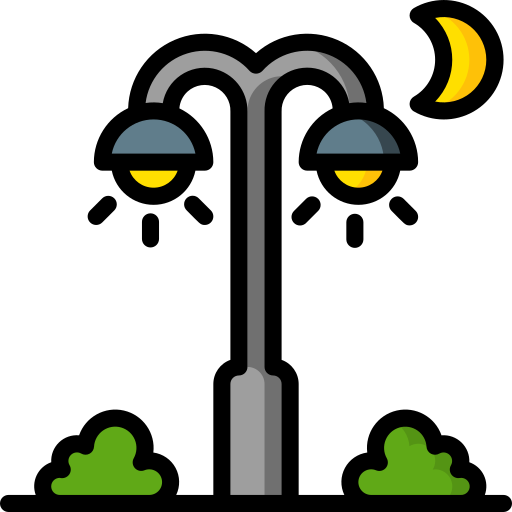
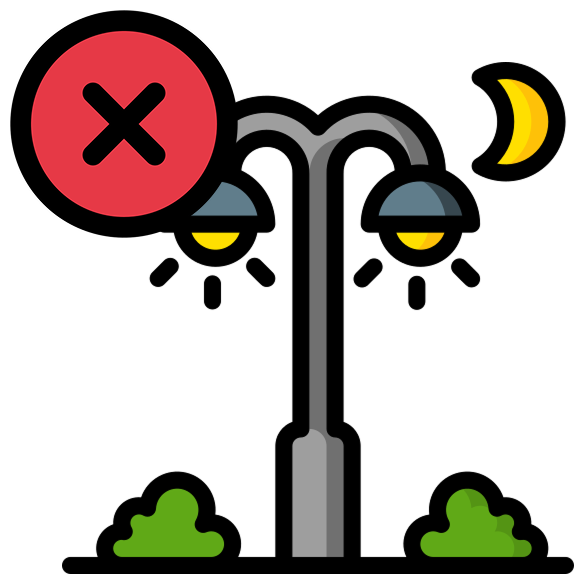
feat: nueva subcategoria + iconos actualizados + cleanup share message
- Vehicular: nueva subcategoria "Vehiculos mal estacionados" + icono
  no-parking.png para reportes de parqueo indebido en zonas residenciales,
  paradas, esquinas con visibilidad reducida, etc.
- Iconos actualizados: lack-of-lighting.png y traffic-light.png reemplazados
  con versiones nuevas mas legibles a tamano reducido.
- Email a autoridad: removida linea "Estado actual" (99% de los reportes
  son 'nuevo', sin valor agregado en el contexto del email). Limpieza del
  import STATUS_LABELS que solo se usaba para esa linea.
- Pagina /metodologia: taxonomia INTRANT respaldada con la cita textual
  + URL del articulo verificable (Telenord, 5 marzo 2026, Joel Gneco
  Gross director de transito y vialidad). Seccion de Referencias lista
  fuente primaria + Plan Estrategico + OPSEVI + WHO Decade of Action.
- Ayuntamiento (share-message): descripcion generalizada — quitada
  referencia a "Santo Domingo D.N." para que aplique a cualquier municipio.

diff --git a/src/app/metodologia/page.tsx b/src/app/metodologia/page.tsx
@@ -11,7 +11,7 @@ import {
 export const metadata: Metadata = {
   title: 'Metodología - PuntosNegrosRD',
   description:
-    'Cómo se recolectan los datos, taxonomía INTRANT, ciclo de vida del reporte y limitaciones declaradas.',
+    'Cómo se recolectan los datos, marco de clasificación de factores de riesgo, ciclo de vida del reporte y limitaciones declaradas.',
 };
 
 export default function MetodologiaPage() {
@@ -31,8 +31,9 @@ export default function MetodologiaPage() {
             Metodología
           </h1>
           <p className="mt-4 text-base leading-relaxed text-fg-muted sm:text-lg">
-            Cómo se recolecta la información, qué taxonomía usamos, qué hacemos
-            con los datos y qué limitaciones tiene este enfoque ciudadano.
+            Cómo se recolecta la información, qué marco de clasificación
+            usamos, qué hacemos con los datos y qué limitaciones tiene este
+            enfoque ciudadano.
           </p>
         </header>
 
@@ -49,9 +50,10 @@ export default function MetodologiaPage() {
             <p>
               Cualquier persona puede reportar un punto de riesgo desde el mapa,
               sin necesidad de crear una cuenta. El reporte requiere coordenadas
-              (vía GPS o selección directa en el mapa), una categoría según la
-              taxonomía oficial del INTRANT y una descripción textual de 10 a
-              1000 caracteres. La identidad del reportante nunca se almacena.
+              (vía GPS o selección directa en el mapa), una categoría según el
+              marco de factores de riesgo descrito más abajo, y una descripción
+              textual de 10 a 1000 caracteres. La identidad del reportante
+              nunca se almacena.
             </p>
             <p>
               Para prevenir abuso se aplica un <em>rate limit</em> de cinco
@@ -62,17 +64,17 @@ export default function MetodologiaPage() {
           </div>
         </section>
 
-        {/* Taxonomía INTRANT */}
+        {/* Taxonomía INTRANT (verificable) */}
         <section className="mt-6">
           <h2 className="mb-3 flex items-center gap-3 px-1 text-lg font-bold tracking-tight text-fg">
             <span
               aria-hidden
               className="block h-6 w-1 rounded-full bg-brand"
             />
-            Taxonomía INTRANT
+            Taxonomía oficial INTRANT
           </h2>
           <div className="space-y-3">
-            <div className="rounded-2xl bg-surface-card p-5 text-sm leading-relaxed text-fg/90 shadow-card ring-1 ring-surface-border sm:p-6">
+            <div className="space-y-3 rounded-2xl bg-surface-card p-5 text-sm leading-relaxed text-fg/90 shadow-card ring-1 ring-surface-border sm:p-6">
               <p>
                 Cada reporte se clasifica en una de las cuatro categorías que
                 el{' '}
@@ -80,6 +82,43 @@ export default function MetodologiaPage() {
                   Instituto Nacional de Tránsito y Transporte Terrestre
                 </strong>{' '}
                 (INTRANT) utiliza para analizar la siniestralidad vial.
+              </p>
+              <p>
+                La taxonomía está anclada en la declaración pública del
+                director de tránsito y vialidad del INTRANT,{' '}
+                <strong className="font-semibold text-fg">
+                  Joel Gneco Gross
+                </strong>
+                , quien describió textualmente los cuatro factores el 5 de
+                marzo de 2026 en Telenord:
+              </p>
+              <blockquote className="border-l-2 border-brand pl-4 italic text-fg-muted">
+                &quot;...lo cual puede responder a cuatro factores diferentes:
+                factor humano, vehicular, infraestructural y climática.&quot;
+              </blockquote>
+              <p className="text-xs text-fg-muted">
+                Fuente verificable:{' '}
+                <a
+                  href="https://www.telenord.com/noticias/nacionales/88358-intrant-identifica-puntos-negros-de-accidentes-de-transito-fatales-en-zonas-de-rd.html"
+                  target="_blank"
+                  rel="noopener noreferrer"
+                  className="break-all text-brand hover:underline"
+                >
+                  Telenord — INTRANT identifica puntos negros de accidentes de
+                  tránsito fatales en zonas de RD
+                </a>
+              </p>
+              <p>
+                PuntosNegrosRD adopta esta taxonomía como lenguaje compartido
+                con la institución, lo que hace que el dataset ciudadano sea
+                directamente cruzable con análisis institucionales futuros sin
+                necesidad de mapeo de equivalencias.
+              </p>
+              <p className="text-xs text-fg-muted">
+                <strong className="font-semibold text-fg">Nota:</strong>{' '}
+                PuntosNegrosRD no es una iniciativa oficial del INTRANT. La
+                adopción de su taxonomía es por alineamiento metodológico, no
+                por endoso ni patrocinio.
               </p>
             </div>
             <div className="grid gap-3 sm:grid-cols-2">
@@ -250,14 +289,102 @@ export default function MetodologiaPage() {
           </h2>
           <div className="rounded-2xl bg-surface-card p-5 text-sm leading-relaxed text-fg/90 shadow-card ring-1 ring-surface-border sm:p-6">
             <p>
-              PuntosNegrosRD no es una iniciativa oficial del INTRANT. Es un
-              esfuerzo ciudadano independiente que adopta la taxonomía técnica
-              de la institución para que los datos sean compatibles y
-              cruzables. El INTRANT anunció en febrero de 2025 la creación de
-              su propio mapa de puntos negros con datos oficiales. Cuando esa
-              iniciativa esté disponible públicamente, PuntosNegrosRD se
+              PuntosNegrosRD es un esfuerzo ciudadano independiente. Adoptamos
+              la taxonomía técnica del INTRANT para que los datos sean
+              compatibles con análisis institucionales y cruzables con otros
+              estudios. El INTRANT anunció el 5 de marzo de 2026 la creación
+              de su propio mapa de puntos negros con datos oficiales. Cuando
+              esa iniciativa esté disponible públicamente, PuntosNegrosRD se
               ofrece a sincronizar y cruzar datasets de forma abierta.
             </p>
+          </div>
+        </section>
+
+        {/* Referencias */}
+        <section className="mt-6">
+          <h2 className="mb-3 flex items-center gap-3 px-1 text-lg font-bold tracking-tight text-fg">
+            <span
+              aria-hidden
+              className="block h-6 w-1 rounded-full bg-brand"
+            />
+            Referencias
+          </h2>
+          <div className="rounded-2xl bg-surface-card p-5 shadow-card ring-1 ring-surface-border sm:p-6">
+            <p className="text-sm leading-relaxed text-fg/90">
+              Documentos públicos consultados para el diseño del marco de
+              clasificación:
+            </p>
+            <ul className="mt-3 space-y-3 text-sm leading-relaxed text-fg/90">
+              <li>
+                <div className="font-semibold text-fg">
+                  Fuente primaria de la taxonomía: Telenord — Joel Gneco
+                  Gross (INTRANT), 5 de marzo de 2026
+                </div>
+                <a
+                  href="https://www.telenord.com/noticias/nacionales/88358-intrant-identifica-puntos-negros-de-accidentes-de-transito-fatales-en-zonas-de-rd.html"
+                  target="_blank"
+                  rel="noopener noreferrer"
+                  className="mt-1 block break-all text-xs text-brand hover:underline"
+                >
+                  telenord.com/.../88358-intrant-identifica-puntos-negros-de-accidentes-de-transito-fatales-en-zonas-de-rd.html
+                </a>
+              </li>
+              <li>
+                <div className="font-semibold text-fg">
+                  Plan Estratégico Nacional para la Seguridad Vial de la
+                  República Dominicana 2021-2030 (INTRANT)
+                </div>
+                <a
+                  href="https://wp.intrant.gob.do/wp-content/uploads/2023/06/Plan-Estrategico-Nacional-Seguridad-Vial-Republica-Dominicana-2021-2030.pdf"
+                  target="_blank"
+                  rel="noopener noreferrer"
+                  className="mt-1 block break-all text-xs text-brand hover:underline"
+                >
+                  wp.intrant.gob.do/.../Plan-Estrategico-Nacional-Seguridad-Vial-Republica-Dominicana-2021-2030.pdf
+                </a>
+              </li>
+              <li>
+                <div className="font-semibold text-fg">
+                  Informe Nacional de Seguridad Vial 2023 (OPSEVI / INTRANT)
+                </div>
+                <a
+                  href="https://opsevi.intrant.gob.do/wp-content/uploads/2024/12/Informe-Nacional-de-Seguridad-Vial-2023.pdf"
+                  target="_blank"
+                  rel="noopener noreferrer"
+                  className="mt-1 block break-all text-xs text-brand hover:underline"
+                >
+                  opsevi.intrant.gob.do/.../Informe-Nacional-de-Seguridad-Vial-2023.pdf
+                </a>
+              </li>
+              <li>
+                <div className="font-semibold text-fg">
+                  Decade of Action for Road Safety 2021-2030 (Organización
+                  Mundial de la Salud)
+                </div>
+                <a
+                  href="https://www.who.int/teams/social-determinants-of-health/safety-and-mobility/decade-of-action-for-road-safety-2021-2030"
+                  target="_blank"
+                  rel="noopener noreferrer"
+                  className="mt-1 block break-all text-xs text-brand hover:underline"
+                >
+                  who.int/.../decade-of-action-for-road-safety-2021-2030
+                </a>
+              </li>
+              <li>
+                <div className="font-semibold text-fg">
+                  Global Plan for the Decade of Action for Road Safety
+                  2021-2030 (OMS)
+                </div>
+                <a
+                  href="https://www.who.int/publications/m/item/global-plan-for-the-decade-of-action-for-road-safety-2021-2030"
+                  target="_blank"
+                  rel="noopener noreferrer"
+                  className="mt-1 block break-all text-xs text-brand hover:underline"
+                >
+                  who.int/publications/m/item/global-plan-for-the-decade-of-action-for-road-safety-2021-2030
+                </a>
+              </li>
+            </ul>
           </div>
         </section>
       </div>

diff --git a/src/lib/share-message.ts b/src/lib/share-message.ts
@@ -1,4 +1,4 @@
-import { CATEGORIES, STATUS_LABELS } from './constants';
+import { CATEGORIES } from './constants';
 import type { Point } from './types';
 
 interface ShareMessage {
@@ -35,7 +35,7 @@ export const KNOWN_RECIPIENTS: AuthorityRecipient[] = [
     email: '[email redacted]',
     salutation: 'Estimados de INTRANT:',
     requestLine:
-      'Solicito amablemente que se considere este reporte para evaluacion tecnica conforme a la taxonomia oficial del INTRANT y, de ser procedente, su inclusion en planes de regulacion, señalizacion o intervencion vial.',
+      'Solicito amablemente que se considere este reporte para evaluacion tecnica conforme al marco del Plan Estrategico Nacional para la Seguridad Vial 2021-2030 y, de ser procedente, su inclusion en planes de regulacion, señalizacion o intervencion vial.',
   },
   {
     name: 'DIGESETT',
@@ -63,7 +63,7 @@ export const KNOWN_RECIPIENTS: AuthorityRecipient[] = [
   },
   {
     name: 'Ayuntamiento',
-    description: 'Calles internas de barrios en Santo Domingo D.N.',
+    description: 'Calles internas, aceras e iluminacion local.',
     salutation: 'Estimado Ayuntamiento:',
     requestLine:
       'Solicito amablemente la intervencion del ayuntamiento para evaluar el estado del punto y, de ser procedente, ejecutar mejoras en infraestructura local (señalizacion, iluminacion, mantenimiento de calles internas, aceras).',
@@ -92,26 +92,29 @@ export function buildShareMessage(
   const sub = point.subcategory ? ` - ${point.subcategory}` : '';
   const url = `${siteUrl.replace(/\/$/, '')}/punto/${point.id}`;
   const gmaps = `https://www.google.com/maps?q=${point.lat},${point.lng}`;
-  const status = STATUS_LABELS[point.status] ?? point.status;
 
   const salutation = recipient?.salutation ?? DEFAULT_SALUTATION;
   const requestLine = recipient?.requestLine ?? DEFAULT_REQUEST_LINE;
 
   const subject = `Reporte ciudadano de riesgo vial - ${cat}${sub}`;
 
+  // URL base del sitio para apuntar a /metodologia desde el email.
+  // El receptor que quiera validar el marco de clasificacion va alli
+  // (una sola pagina, mas legible que un bloque pegado en cada email).
+  const siteBase = siteUrl.replace(/\/$/, '');
+
   const body = [
     salutation,
     '',
-    'Como ciudadano de la Republica Dominicana, quisiera notificar formalmente un punto de riesgo vial documentado en la plataforma ciudadana PuntosNegrosRD, iniciativa independiente que adopta la taxonomia tecnica del Instituto Nacional de Transito y Transporte Terrestre (INTRANT).',
+    'Como ciudadano de la Republica Dominicana, quisiera notificar formalmente un punto de riesgo vial documentado en la plataforma ciudadana PuntosNegrosRD.',
     '',
-    `Categoria (taxonomia INTRANT): ${cat}`,
+    `Categoria: ${cat}`,
     point.subcategory ? `Subcategoria: ${point.subcategory}` : null,
     `Ubicacion: ${point.lat.toFixed(5)}, ${point.lng.toFixed(5)}`,
     point.municipality ? `Municipio: ${point.municipality}` : null,
     point.province ? `Provincia: ${point.province}` : null,
     `Ver en mapa: ${gmaps}`,
     `Confirmaciones comunitarias: ${point.confirmation_count}`,
-    `Estado actual: ${status}`,
     '',
     'Descripcion ciudadana:',
     point.description,
@@ -120,6 +123,8 @@ export function buildShareMessage(
     url,
     '',
     requestLine,
+    '',
+    `Metodologia y marco de clasificacion: ${siteBase}/metodologia`,
     '',
     'Atentamente,',
     'Un ciudadano dominicano',

diff --git a/src/lib/constants.ts b/src/lib/constants.ts
@@ -20,6 +20,7 @@ export const CATEGORIES = {
       'Motocicletas sin luces o frenos',
       'Vehículos sobrecargados de pasajeros',
       'Vehículos pesados en zona residencial',
+      'Vehículos mal estacionados',
       'Otros (estado vehicular)',
     ],
   },

diff --git a/src/lib/marker-icons.ts b/src/lib/marker-icons.ts
@@ -42,6 +42,7 @@ const SUBCATEGORY_ICONS: Record<string, string> = {
   'Motocicletas sin luces o frenos': 'motorcycle',
   'Vehículos sobrecargados de pasajeros': 'minibus',
   'Vehículos pesados en zona residencial': 'truck',
+  'Vehículos mal estacionados': 'no-parking',
   'Otros (estado vehicular)': 'wrench',
 
   // Infraestructural